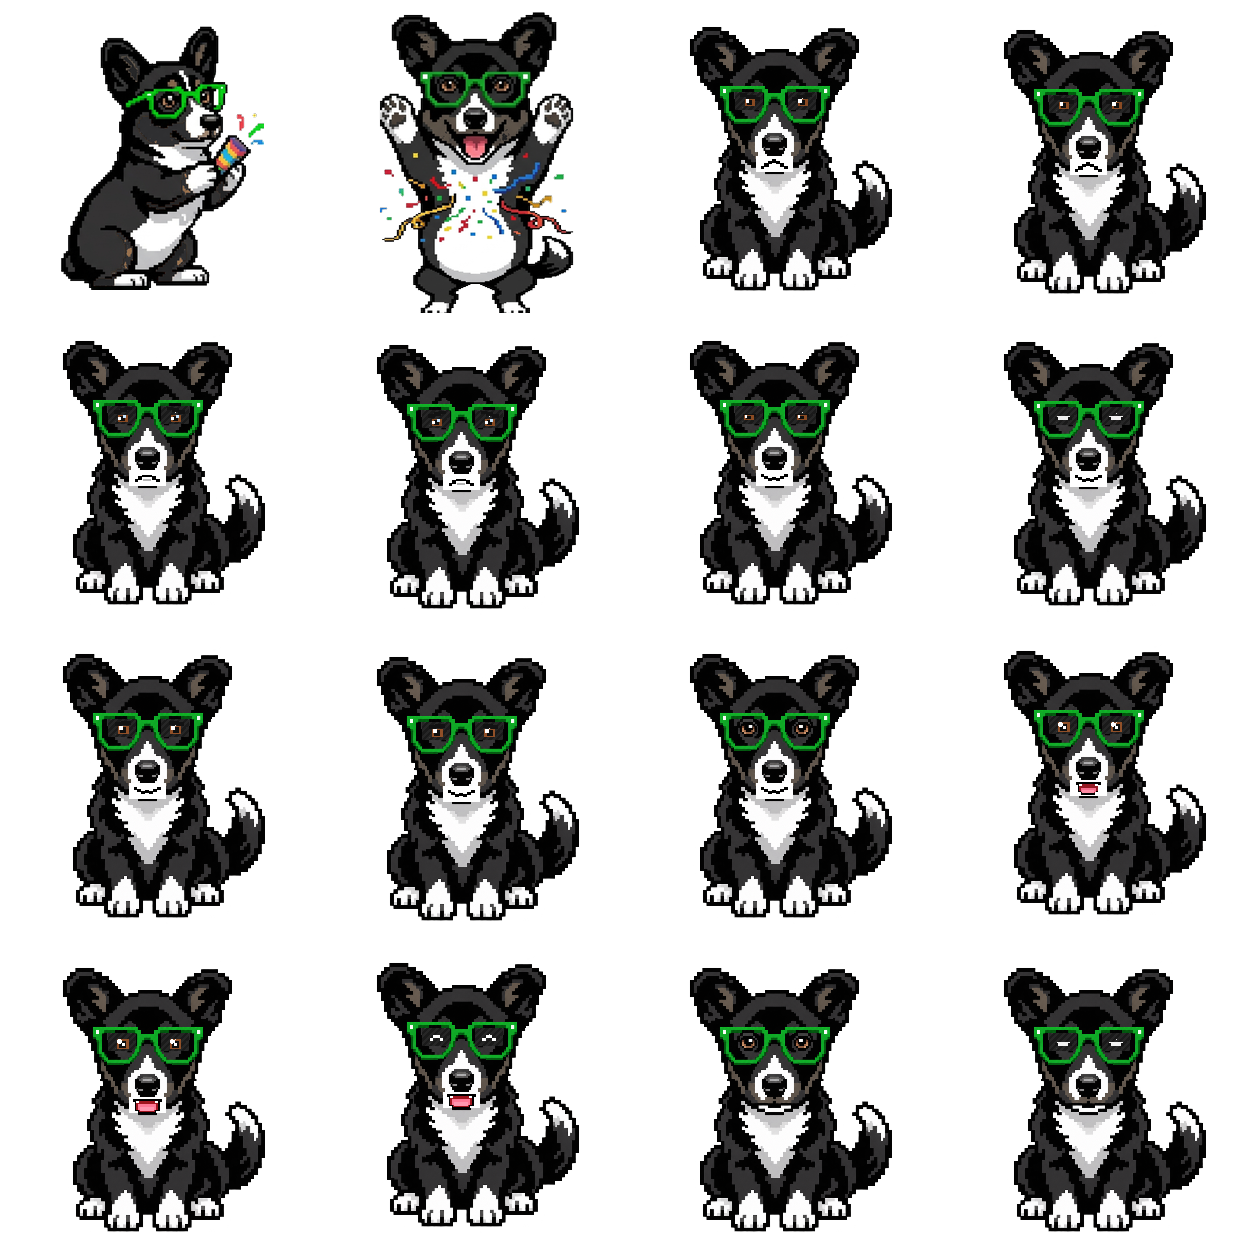
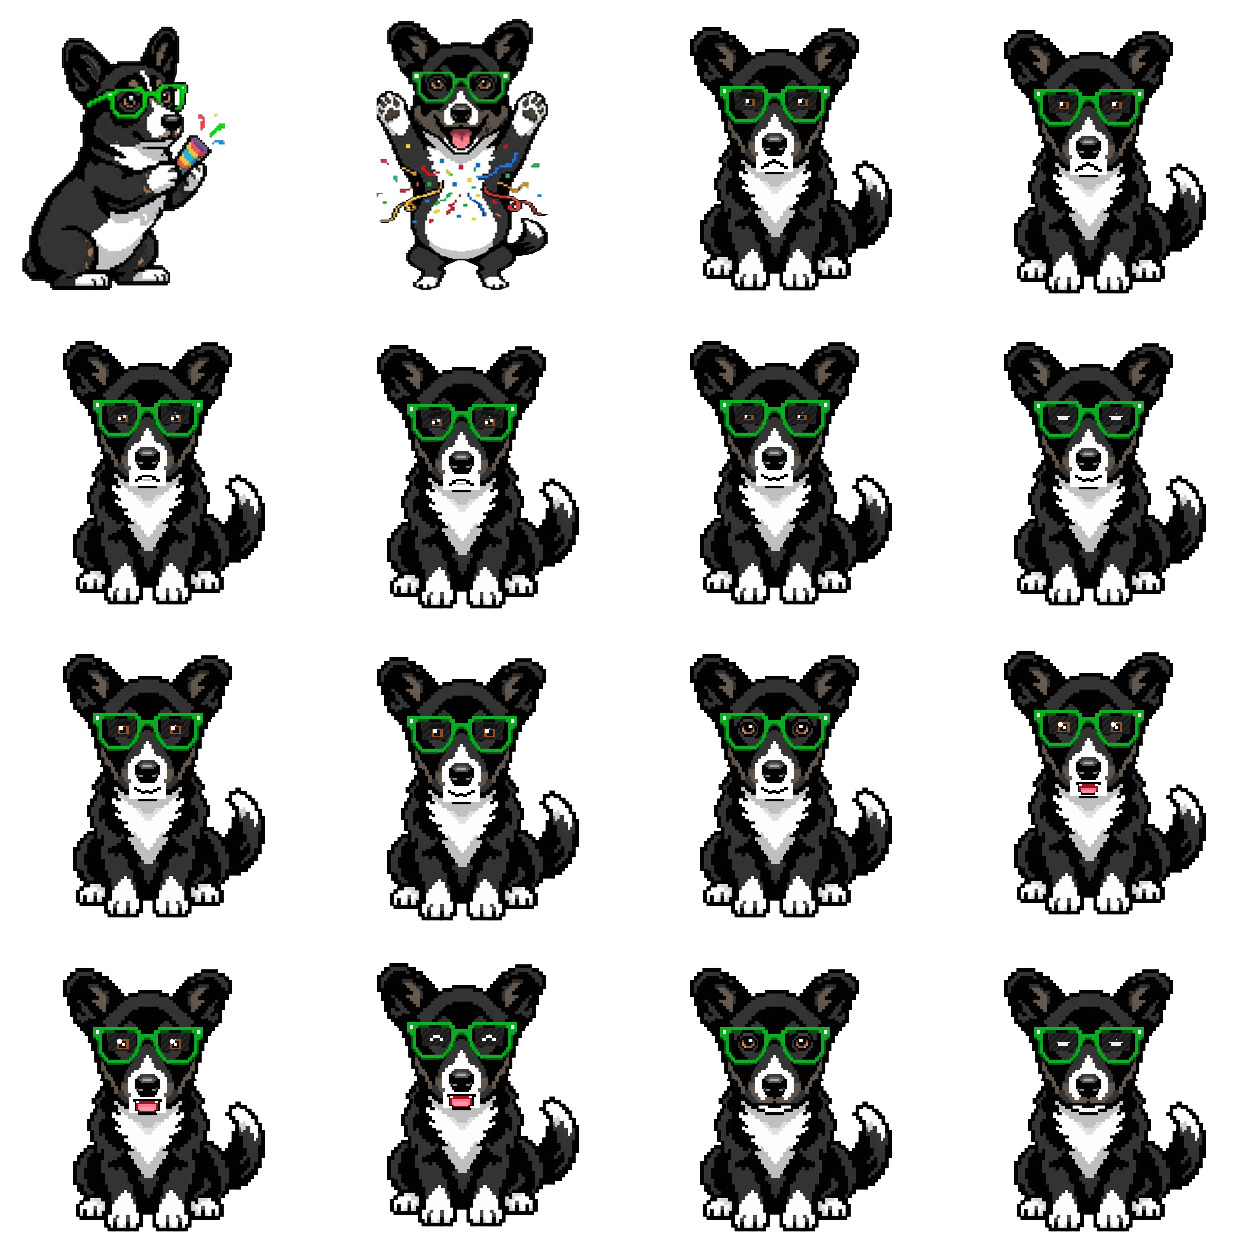
Align standing position exactly and expand joy reaction to smooth 6-frame animation

Changed region(s): [[0.2799, 0.0, 0.4665, 0.2488], [0.0, 0.0, 0.2177, 0.2488]]

diff --git a/public/room.css b/public/room.css
@@ -50,6 +50,7 @@
 .room-emotion{display:none;position:absolute;left:37.344%;bottom:6%;width:25.3125%;aspect-ratio:1;pointer-events:none;background-image:url('/room-emotions.png');background-size:400% 400%;background-repeat:no-repeat;image-rendering:pixelated;filter:drop-shadow(0 3px 0 #1b201d55);--emotion-start:0%;--emotion-end:33.333333%;--emotion-row:0%;background-position:var(--emotion-start) var(--emotion-row);animation:room-expression 1.2s steps(1,end) infinite}
 .pixel-room.has-emotions:not([data-emotion=neutral]) .room-emotion{display:block}
 .pixel-room.has-emotions:not([data-emotion=neutral]) .room-gonta{visibility:hidden}
+.pixel-room[data-emotion=joy] .room-emotion{background-image:url('/room-emotion-joy.png');background-size:600% 100%;animation:room-joy-expression 1.65s steps(1,end) infinite}
 .pixel-room[data-emotion=anger] .room-emotion{--emotion-start:66.666667%;--emotion-end:100%;animation-duration:.9s}
 .pixel-room[data-emotion=sadness] .room-emotion{--emotion-row:33.333333%;animation-duration:2s}
 .pixel-room[data-emotion=relaxed] .room-emotion{--emotion-row:33.333333%;--emotion-start:66.666667%;--emotion-end:100%;animation-duration:2.4s}
@@ -58,6 +59,7 @@
 .pixel-room[data-emotion=cheering] .room-emotion{--emotion-row:100%;animation-duration:.75s}
 .room-bubble{z-index:1}
 @keyframes room-expression{0%,100%{background-position:var(--emotion-start) var(--emotion-row)}50%{background-position:var(--emotion-end) var(--emotion-row)}}
+@keyframes room-joy-expression{0%,100%{background-position:0% 0%}19%{background-position:20% 0%}34%{background-position:40% 0%}43%{background-position:60% 0%}54%{background-position:80% 0%}83%{background-position:100% 0%}}
 @media(prefers-reduced-motion:reduce){.room-emotion{animation:none}}
 
 /* Give long messages the remaining viewport; keep the room as a small scene. */
